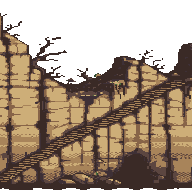
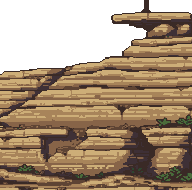
Lanternhold M1b polish 3: gorge wall from gorgewall-b (horizontal strata, stepped ledges, one dead tree: no more night-forest look; gorgeWallHigh's left strip follows); warden statue in cool grey stone in a dark niche with a readable bowl; farPeak dropped from the gorge; throat rock shaded 0.7/0.62 

diff --git a/games/lanternhold/tools/scenemock/layout_m1b.py b/games/lanternhold/tools/scenemock/layout_m1b.py
@@ -85,7 +85,7 @@ CYCLES = [
 # Cloud bands (M1b polish), parallax 0.05: sky x 0 to 710 covers every camera (the plane shifts at most 173 px).
 # Albedo is cream tops (parchment, foam) over lavender bellies (farPale, moon). The renderer lights them like this
 # (mock.py base(), cloud branch): the sunlit share Lw = clamp((luma - 0.6) / 0.3) takes ambient * cloudSun, the rest
-# the sky's top colour * cloudFill, then cloudHaze toward skyBottom; so at golden hour the tops turn gold and the
+# skyTop * cloudFill (1.7), then cloudHaze toward skyBottom; so at golden hour the tops turn gold and the
 # bellies violet, at night both go dim blue. y is the band's bottom above the ground line; tops stay below row 172.
 SKY = [
     dict(s="cloudA", x=-40, y=122),
@@ -97,11 +97,11 @@ SKY = [
 # ------------------------------------------------------------------------------------------------- far plane
 FAR = [
     # gorge set: glimpses only (the gorge wall hides almost all of it); kept for the notches
+    # (M1b polish: the farPeak pyramids are gone; one poked through the wall's notch and looked pasted in)
     dict(s="farMountain", x=-40, y=40, region="gorge", z=0, shade=0.92),
-    dict(s="farPeak", x=56, y=40, region="gorge", z=1, shade=0.92, flip=True),
-    dict(s="farMountain", x=152, y=40, region="gorge", z=0, shade=0.92),
-    dict(s="farPeak", x=248, y=40, region="gorge", z=1, shade=0.92),
-    dict(s="farMountain", x=344, y=40, region="gorge", z=0, shade=0.92, flip=True),
+    dict(s="farMountain", x=100, y=36, region="gorge", z=0, shade=0.92, flip=True),
+    dict(s="farMountain", x=240, y=40, region="gorge", z=0, shade=0.92),
+    dict(s="farMountain", x=380, y=34, region="gorge", z=0, shade=0.92, flip=True),
 ]
 
 # ------------------------------------------------------------------------------------------------- mid plane
@@ -109,12 +109,12 @@ MID = [
     # The warden statue, carved into the wall; seen behind the king at the front (focus 600 to 1000). Its bowl fire
     # burns all night: a hearthFire in the dark hollow and a brazier light.
     # It stands 34 px low (its plinth behind the ground strip) so the crown and the bowl stay on screen.
-    dict(s="wardenStatue", x=430, y=-34, region="gorge", z=2,
+    dict(s="wardenStatue", x=430, y=-34, region="gorge", z=2, shade=0.88,  # grey stone in a dark niche (M1b polish)
          em=[("sprite", "hearthFire", 40, 153, "fireOrange", False)],
          li=[("hearth", 478, 124, 70)]),
     # The throat: the wall rises above the screen behind the castle front (at the gate view, x 669-909 is behind the
     # front); its right end hides behind the front.
-    dict(s="gorgeWallHigh", x=690, y=0, region="gorge", z=1),
+    dict(s="gorgeWallHigh", x=690, y=0, region="gorge", z=1, shade=0.85),  # under the hazy wall's value (M1b polish)
     # Inside the walls the cliffs still rise behind the courtyard and the hall.
     dict(s="gorgeWallB", x=862, y=0, region="gorge", z=0),
     # Where the gorge ends: seen above the kitchen from the back gate, falling away to the right behind the gate.
@@ -145,8 +145,8 @@ def brazier(cx):
 
 
 F = CASTLE_FRONT_X
-ROCK_SHADE = 0.8    # the throat rock one value step below the castle stone, so the front separates from the cliffs
-FLANK_SHADE = 0.72  # the flanks right beside the towers, darker still (rock in the castle's shadow)
+ROCK_SHADE = 0.7    # the throat rock one value step below the castle stone, so the front separates from the cliffs
+FLANK_SHADE = 0.62  # the flanks right beside the towers, darker still (rock in the castle's shadow)
 K = 1286  # castleKeep x: centred behind the gatehouse, it fills the gap between the towers above the wall walk
 B = BACK_GATE_SPRITE_X
 
@@ -185,7 +185,7 @@ WORLD = [
          # the wall-walk braziers smaller (44, was 56) and a warm pool in the gateway, so the king at the gate is the
          # one focal point of the hero shot
          li=[("brazier", F + 97, 136, 44), ("brazier", F + 142, 136, 44),
-             ("torch", F + 92, 64, 30), ("torch", F + 147, 64, 30), ("torch", F + 120, 14, 46)]),
+             ("torch", F + 92, 64, 30), ("torch", F + 147, 64, 30), ("lantern", F + 120, 40, 34)]),
     # --- inside: courtyard, great hall, chapel, kitchen ---
     # the courtyard wall runs from 1580, out of the gate view: from the gate, rock (the right flank, then the high
     # rock from the ground) closes the frame right of the right tower; inside, the castle is built into the throat

diff --git a/games/lanternhold/tools/scenemock/mock.py b/games/lanternhold/tools/scenemock/mock.py
@@ -16,7 +16,7 @@ LOOK = dict(lift=0.46, farShare=0.9, midLight=0.32, gain=1.55, knee=0.95, fogGlo
             bloom=0.75, bloomLight=0.16, bloomSky=0.55, thr=0.34, kneeB=0.5, farHaze=0.24, farHazeShare=0.62,
             midHazeShare=0.26, mist=0.22, colorise=0.6, glowAdd=0.06, midHaze=0.18, midShare=0.8, fogBright=1.6,
             # M1b polish (renderer additions, defaults keep the old look): aerial perspective at warm hours, clouds
-            farCool=0.0, farWarm=1.0, midWarm=1.0, midCool=0.0, cloudSun=1.1, cloudFill=1.3, cloudHaze=0.25, fogScale=1.0)
+            farCool=0.0, farWarm=1.0, midWarm=1.0, midCool=0.0, cloudSun=1.1, cloudFill=1.7, cloudHaze=0.25, fogScale=1.0)
 for k in list(LOOK):
     if k in args: LOOK[k] = float(args[k])
 src = open(os.path.join(G, 'Core/FrameDesc.swift')).read()
@@ -359,7 +359,7 @@ def render(chapelWin=((30, 52), (77, 52), (124, 52)), kitchenWin=((28, 40), (86,
         if s_[3] > 0:  # clouds: sunlit tops take the warm light, shaded bellies the sky's top colour
             a_ = s_[3]; alb = [s_[k] / a_ for k in range(3)]; lu = 0.299 * alb[0] + 0.587 * alb[1] + 0.114 * alb[2]
             Lw = min(1, max(0, (lu - 0.6) / 0.3))
-            lit = [alb[k] * (ambW[k] * LOOK['cloudSun'] * Lw + stN[k] * lvl * LOOK['cloudFill'] * (1 - Lw)) for k in range(3)]
+            lit = [alb[k] * (ambW[k] * LOOK['cloudSun'] * Lw + amb['skyTop'][k] * LOOK['cloudFill'] * (1 - Lw)) for k in range(3)]
             lit = [lit[k] + (amb['skyBottom'][k] - lit[k]) * LOOK['cloudHaze'] for k in range(3)]
             c = [c[k] * (1 - a_) + lit[k] * a_ for k in range(3)]
         f = layers['far'][y][x]
